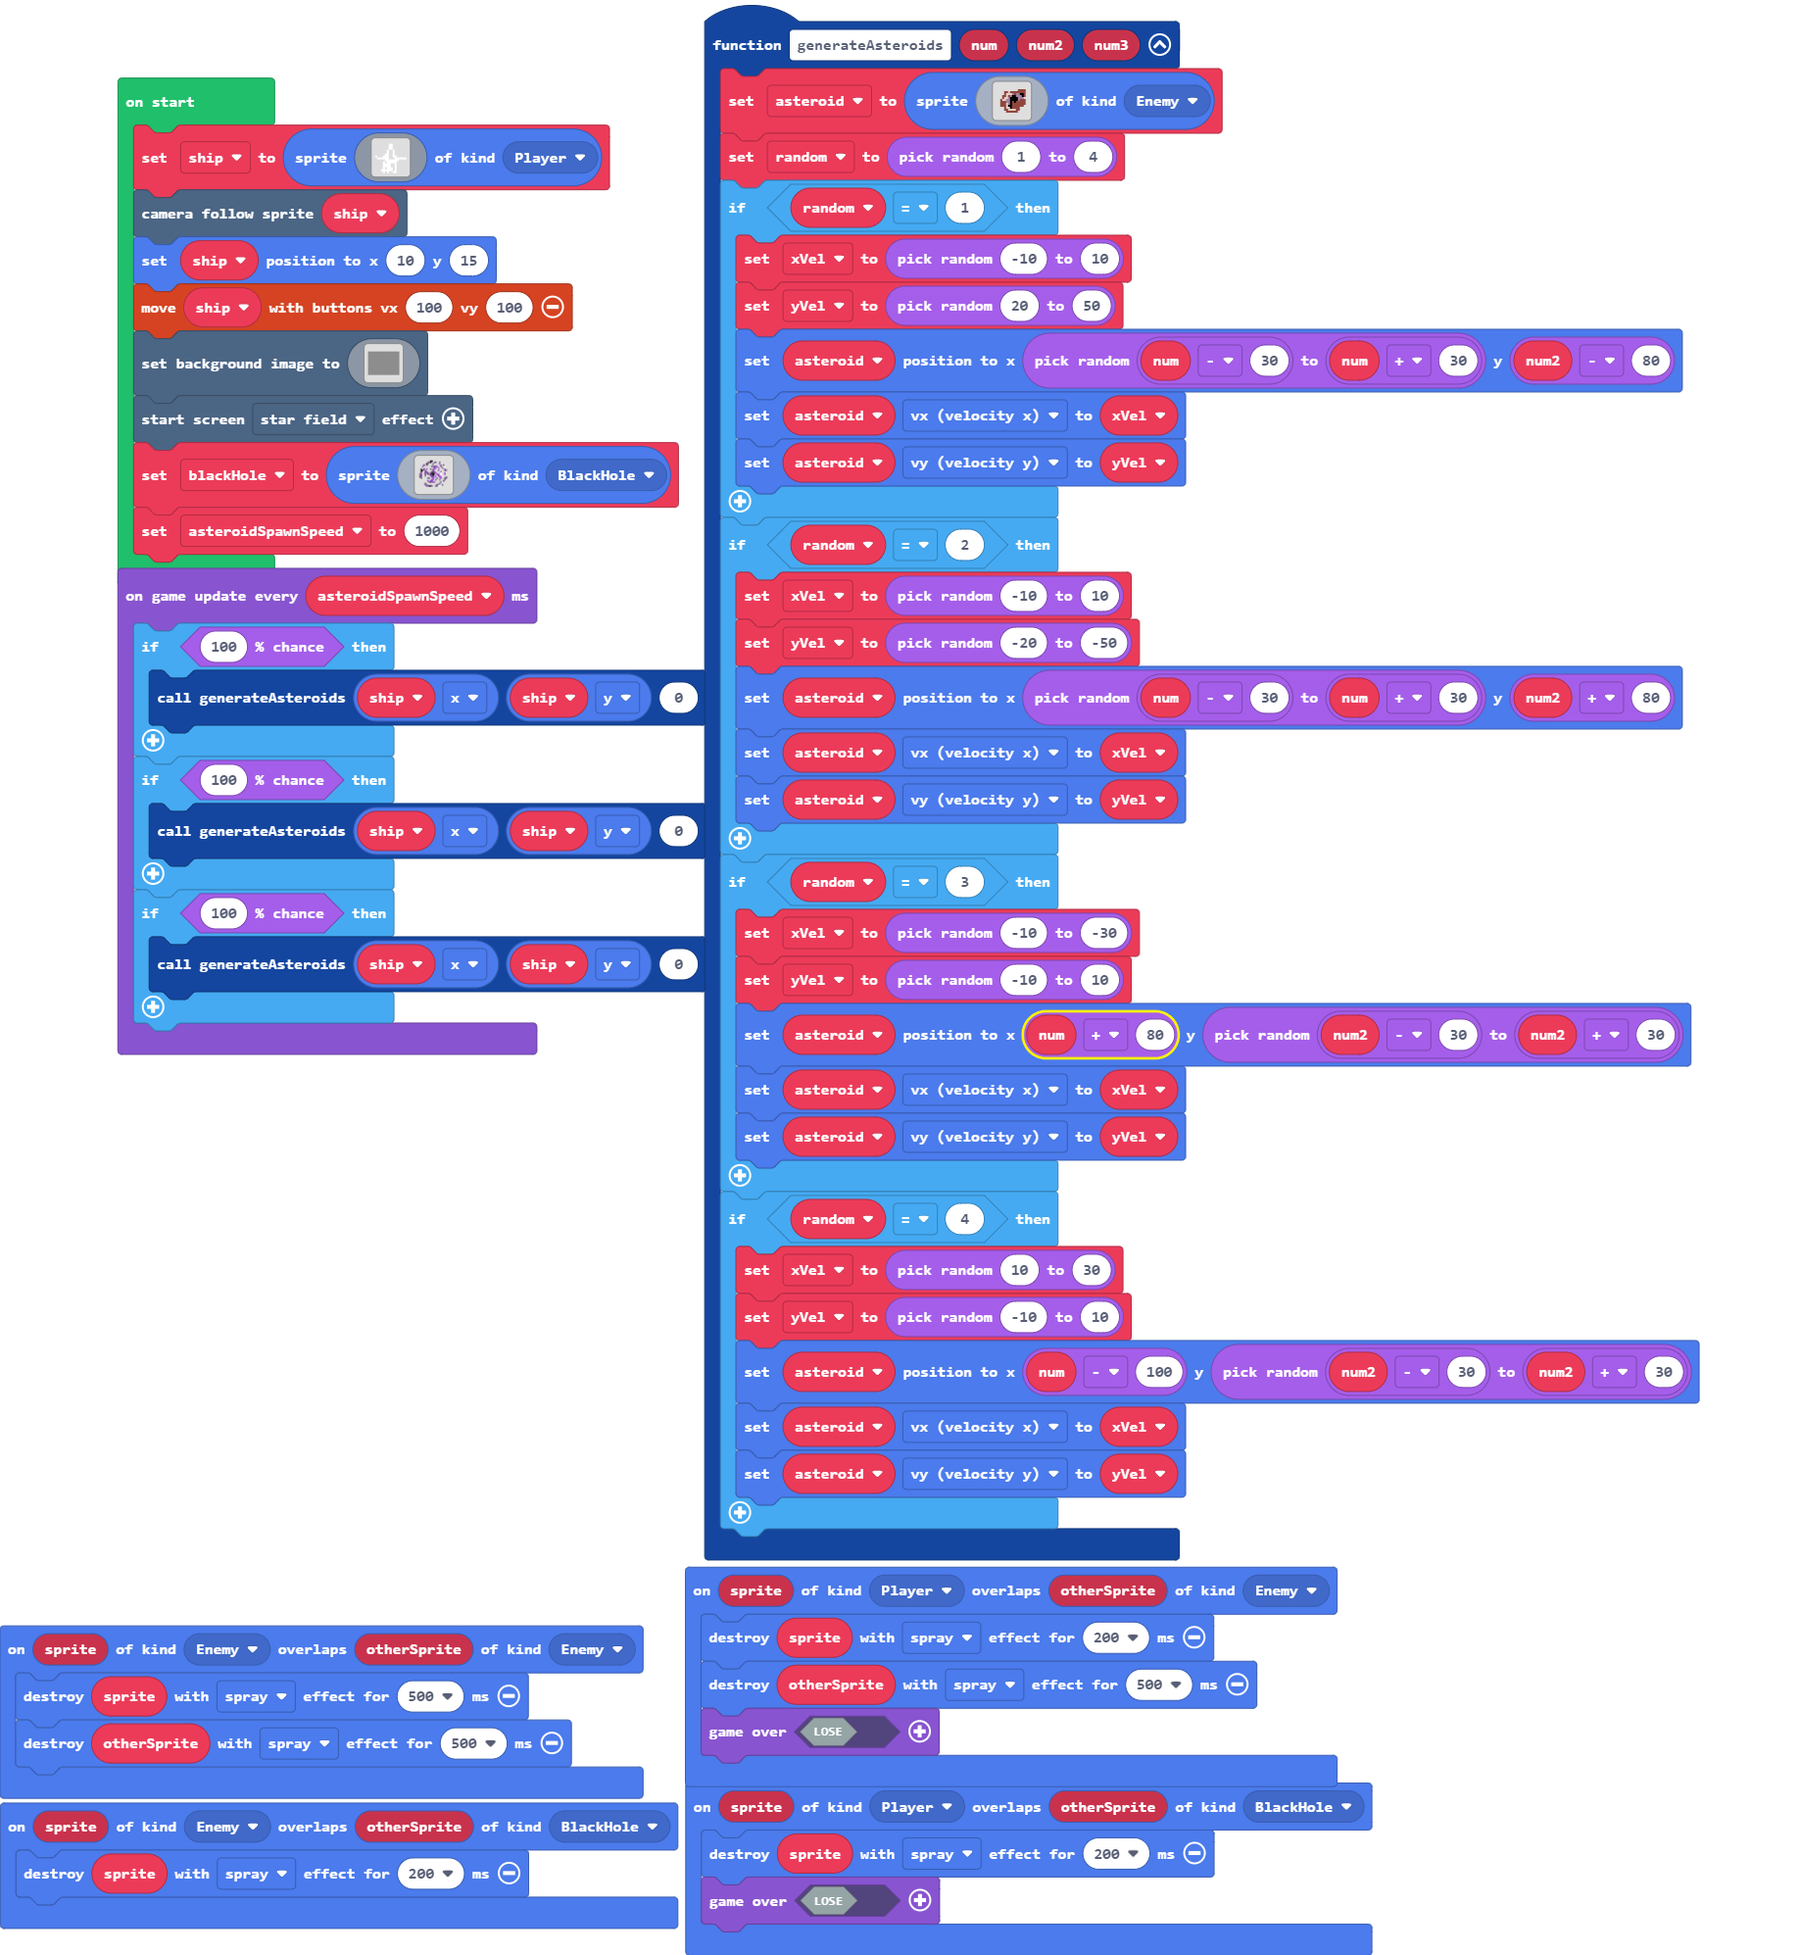
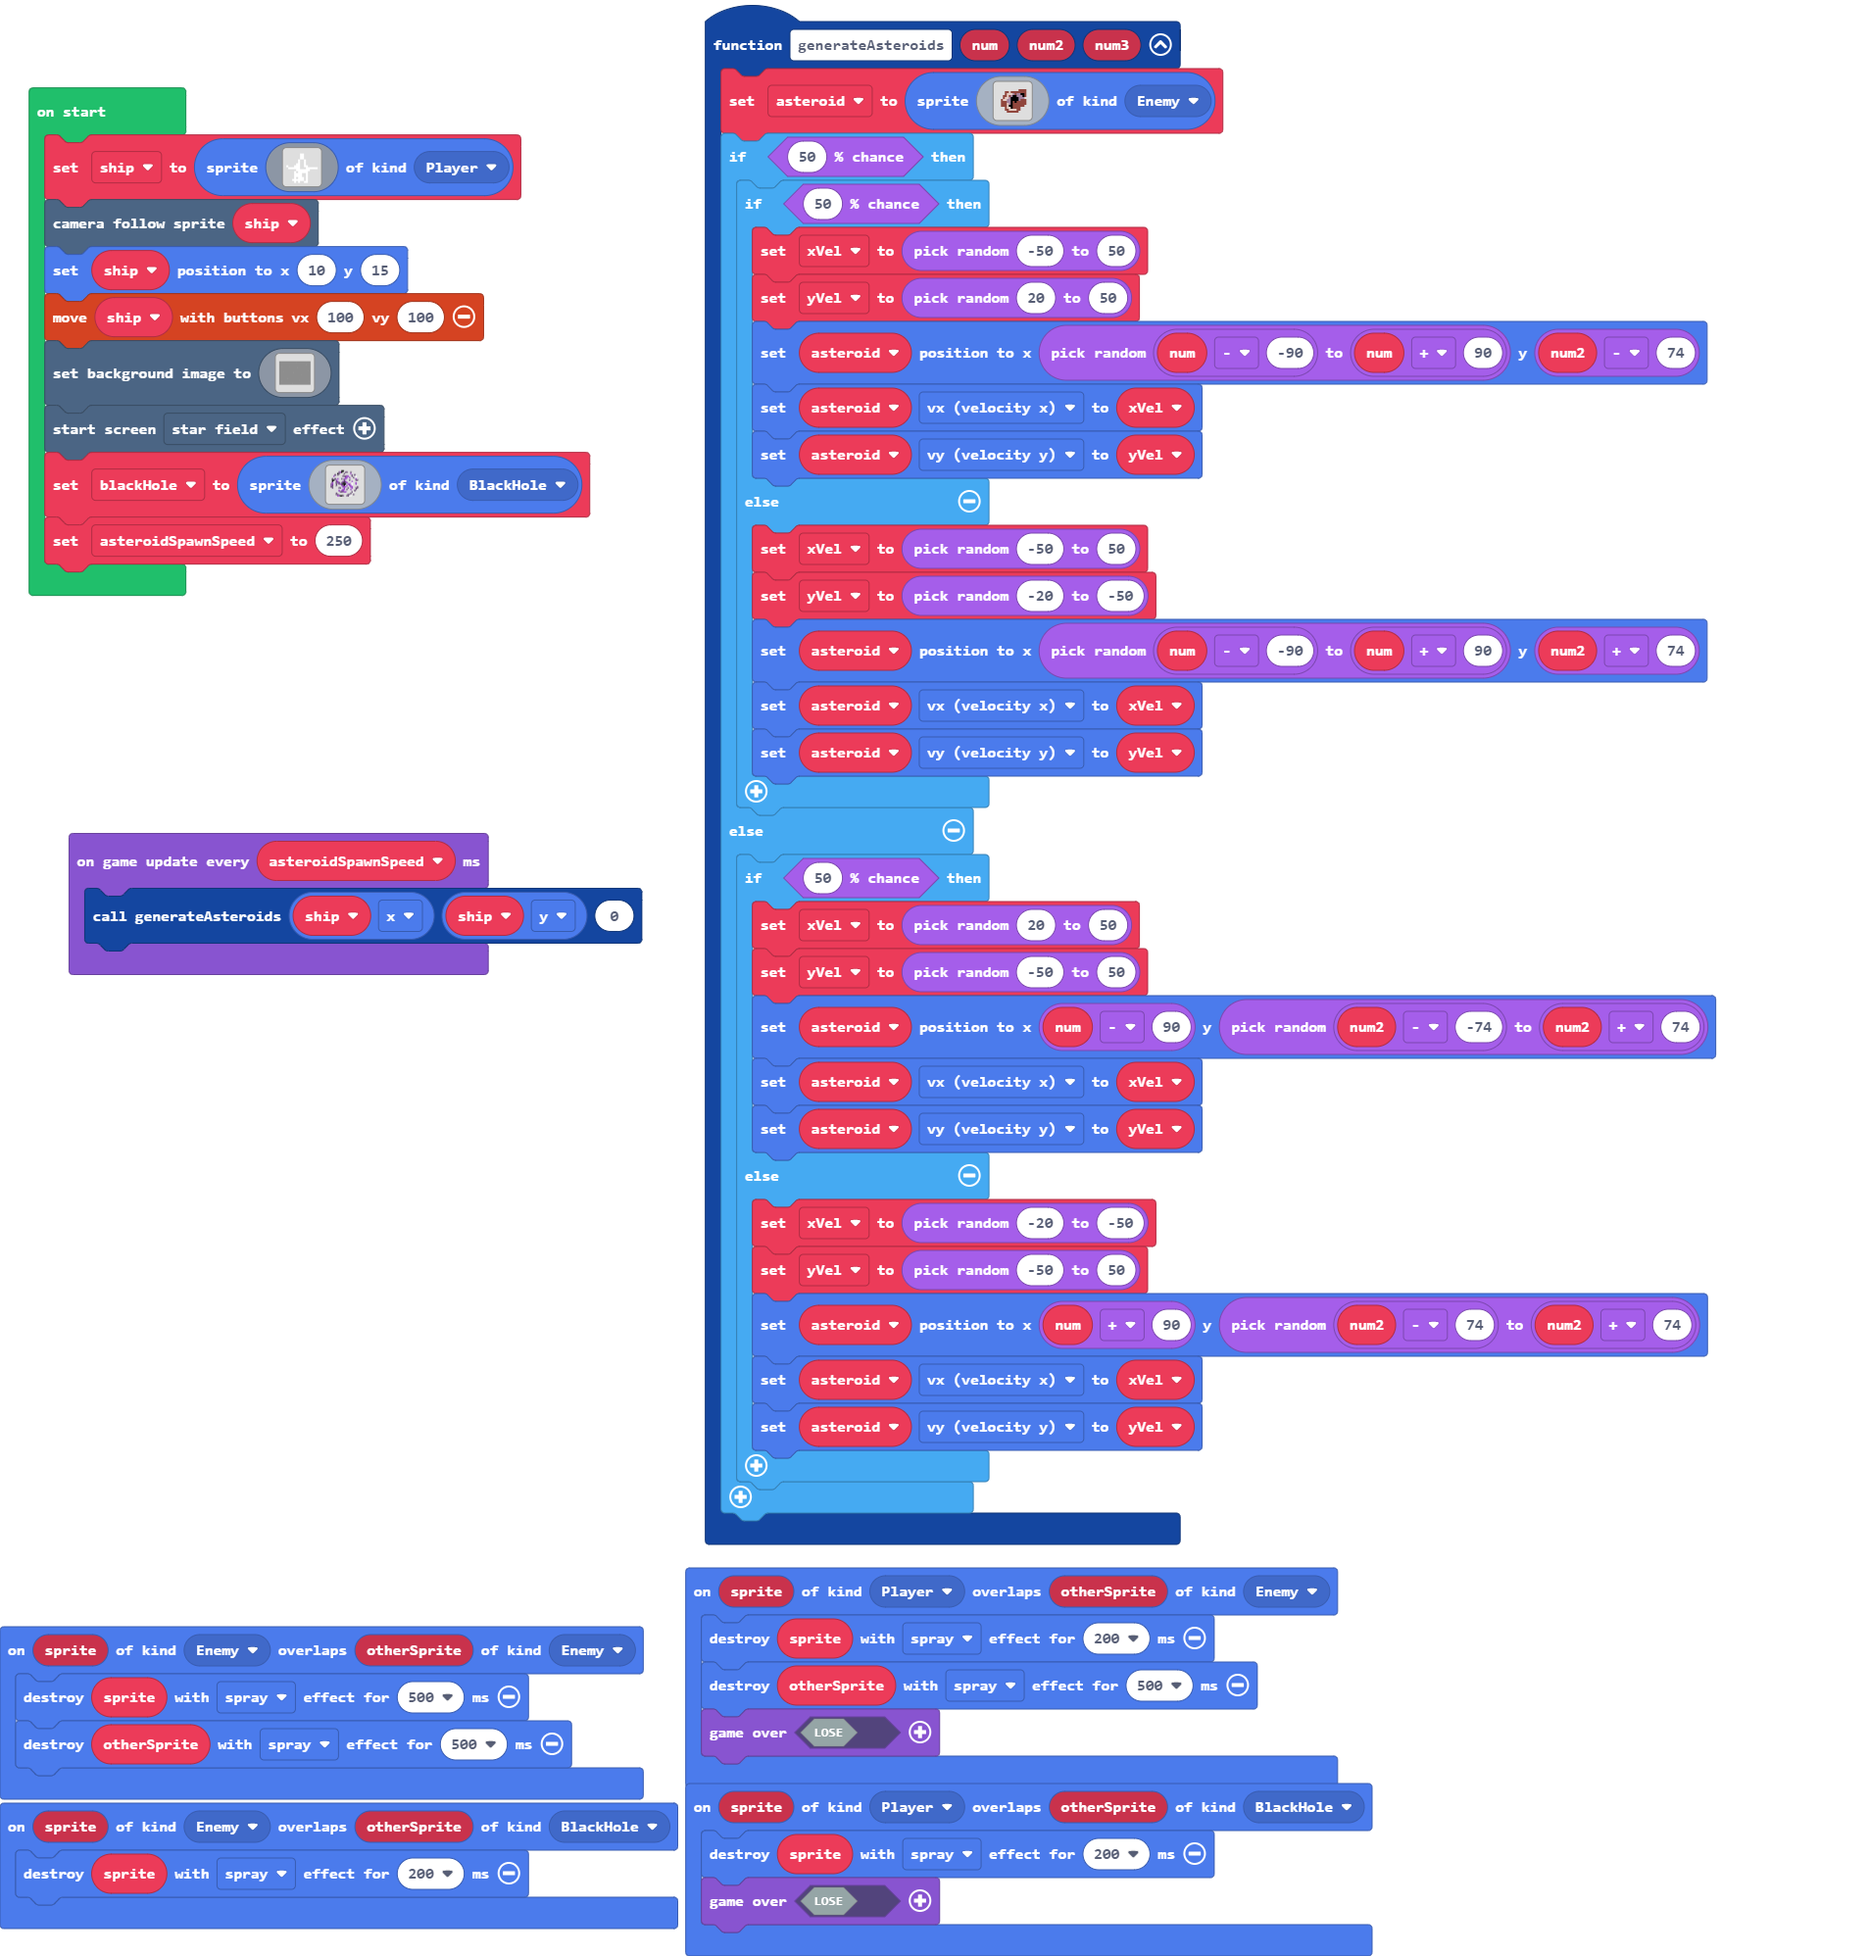
Update main.blocks, main.ts

diff --git a/main.ts b/main.ts
@@ -32,34 +32,34 @@ function generateAsteroids (num: number, num2: number, num3: number) {
         . . . . . . . . . . . . . . . . 
         . . . . . . . . . . . . . . . . 
         `, SpriteKind.Enemy)
-    random = randint(1, 4)
-    if (random == 1) {
-        xVel = randint(-10, 10)
-        yVel = randint(20, 50)
-        asteroid.setPosition(randint(num - 30, num + 30), num2 - 80)
-        asteroid.vx = xVel
-        asteroid.vy = yVel
-    }
-    if (random == 2) {
-        xVel = randint(-10, 10)
-        yVel = randint(-20, -50)
-        asteroid.setPosition(randint(num - 30, num + 30), num2 + 80)
-        asteroid.vx = xVel
-        asteroid.vy = yVel
-    }
-    if (random == 3) {
-        xVel = randint(-10, -30)
-        yVel = randint(-10, 10)
-        asteroid.setPosition(num + 80, randint(num2 - 30, num2 + 30))
-        asteroid.vx = xVel
-        asteroid.vy = yVel
-    }
-    if (random == 4) {
-        xVel = randint(10, 30)
-        yVel = randint(-10, 10)
-        asteroid.setPosition(num - 100, randint(num2 - 30, num2 + 30))
-        asteroid.vx = xVel
-        asteroid.vy = yVel
+    if (Math.percentChance(50)) {
+        if (Math.percentChance(50)) {
+            xVel = randint(-50, 50)
+            yVel = randint(20, 50)
+            asteroid.setPosition(randint(num - -90, num + 90), num2 - 74)
+            asteroid.vx = xVel
+            asteroid.vy = yVel
+        } else {
+            xVel = randint(-50, 50)
+            yVel = randint(-20, -50)
+            asteroid.setPosition(randint(num - -90, num + 90), num2 + 74)
+            asteroid.vx = xVel
+            asteroid.vy = yVel
+        }
+    } else {
+        if (Math.percentChance(50)) {
+            xVel = randint(20, 50)
+            yVel = randint(-50, 50)
+            asteroid.setPosition(num - 90, randint(num2 - -74, num2 + 74))
+            asteroid.vx = xVel
+            asteroid.vy = yVel
+        } else {
+            xVel = randint(-20, -50)
+            yVel = randint(-50, 50)
+            asteroid.setPosition(num + 90, randint(num2 - 74, num2 + 74))
+            asteroid.vx = xVel
+            asteroid.vy = yVel
+        }
     }
 }
 sprites.onOverlap(SpriteKind.Player, SpriteKind.BlackHole, function (sprite, otherSprite) {
@@ -73,7 +73,6 @@ sprites.onOverlap(SpriteKind.Player, SpriteKind.Enemy, function (sprite, otherSp
 })
 let yVel = 0
 let xVel = 0
-let random = 0
 let asteroid: Sprite = null
 let ship = sprites.create(img`
     . . . . . . . . . . . . . . . . 
@@ -245,15 +244,7 @@ let blackHole = sprites.create(img`
     ........................
     ........................
     `, SpriteKind.BlackHole)
-let asteroidSpawnSpeed = 1000
+let asteroidSpawnSpeed = 250
 game.onUpdateInterval(asteroidSpawnSpeed, function () {
-    if (Math.percentChance(100)) {
-        generateAsteroids(ship.x, ship.y, 0)
-    }
-    if (Math.percentChance(100)) {
-        generateAsteroids(ship.x, ship.y, 0)
-    }
-    if (Math.percentChance(100)) {
-        generateAsteroids(ship.x, ship.y, 0)
-    }
+    generateAsteroids(ship.x, ship.y, 0)
 })
